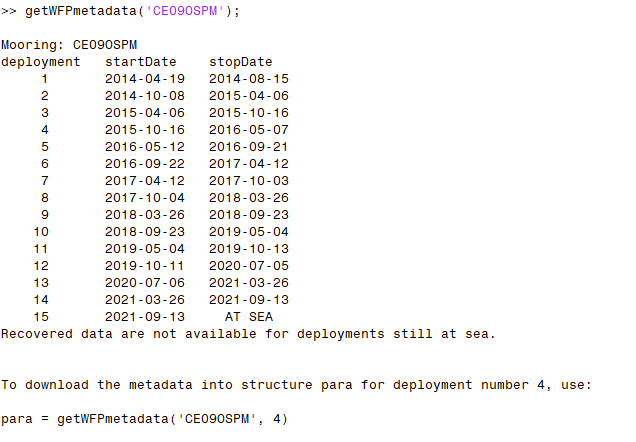
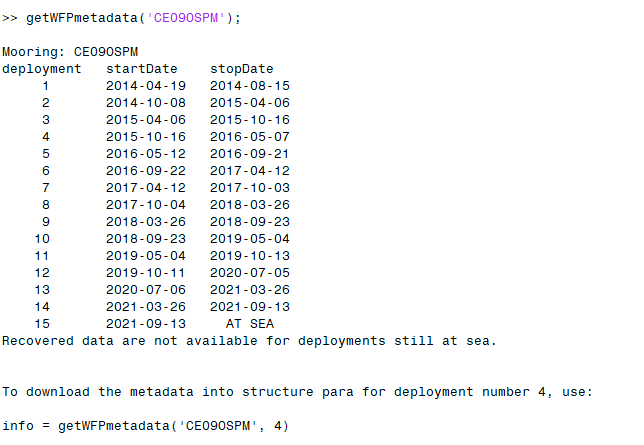
screenshot mod
Former-commit-id: c04acddfaed97f11367ba2f1117480e83a7adaf0

Changed region(s): [[0.0, 0.0882, 0.7767, 0.7941], [0.0, 0.8529, 0.9261, 0.9706], [0.0, 0.0, 0.3884, 0.0588]]

diff --git a/Getting_Started/README.md b/Getting_Started/README.md
@@ -54,12 +54,11 @@ mmp_toolbox is a code suite written to process profile data from McLane profiler
 
 ![sitecodeScreenshotB.png](/Getting_Started/sitecodeScreenshotB.png)
 
-* (c)  `getWFPmetadata` with two [or three] arguments (sitecode name, deployment number, [profiler location in water column]) will create a Matlab structure whose fields are populated with relevant metadata. At the deeper global sites (GA02HYPM, GP02HYPM, and GS02HYPM) two profilers are deployed to sample the 'upper' and 'lower' parts of the water column, thereby requiring the third input. To continue the demonstration, run from the Matlab command line:
+* (c)  `getWFPmetadata` with two [or three] arguments (sitecode name, deployment number, [profiler location in water column]) will create a Matlab structure whose fields are populated with relevant metadata. At the deeper global sites (GA02HYPM, GP02HYPM, and GS02HYPM) two profilers are deployed to sample the 'upper' and 'lower' parts of the water column, thereby requiring the third input denoting profiler_coverage. To continue the demonstration, run from the Matlab command line:
 
 ![sitecodeScreenshotC.png](/Getting_Started/sitecodeScreenshotC.png)
-
-     
-    In this sequence the data from the 4th deployment at the coastal WA site has been selected. The field values of info are required for further processing. Note that the mmp_toolbox code uses a hard-coded structure variable named 'meta', so that to avoid confusion 'meta' should not be used in the getWFPmetadata utility call.
+ 
+In this sequence the data from the 4th deployment at the coastal WA site has been selected. The field values of info are required for further processing. Note that the mmp_toolbox code uses a hard-coded structure variable named 'meta', so that to avoid confusion 'meta' should not be used in the getWFPmetadata utility call.
     
 7. If desired change the local Matlab working directory. The next utility in this demonstration will create a folder named 'OOI_WFP' underneath the working directory for file organization and path standardization based on the sitecode and deployment number so that this demonstration sequence can be run as often as desired with all OOI datasets without having to deal with ambiguous folder names. An added feature is that the OOI_WFP folder  will contain all the dataset folders so that the entire folder tree can be moved as a unit to another location.
 
